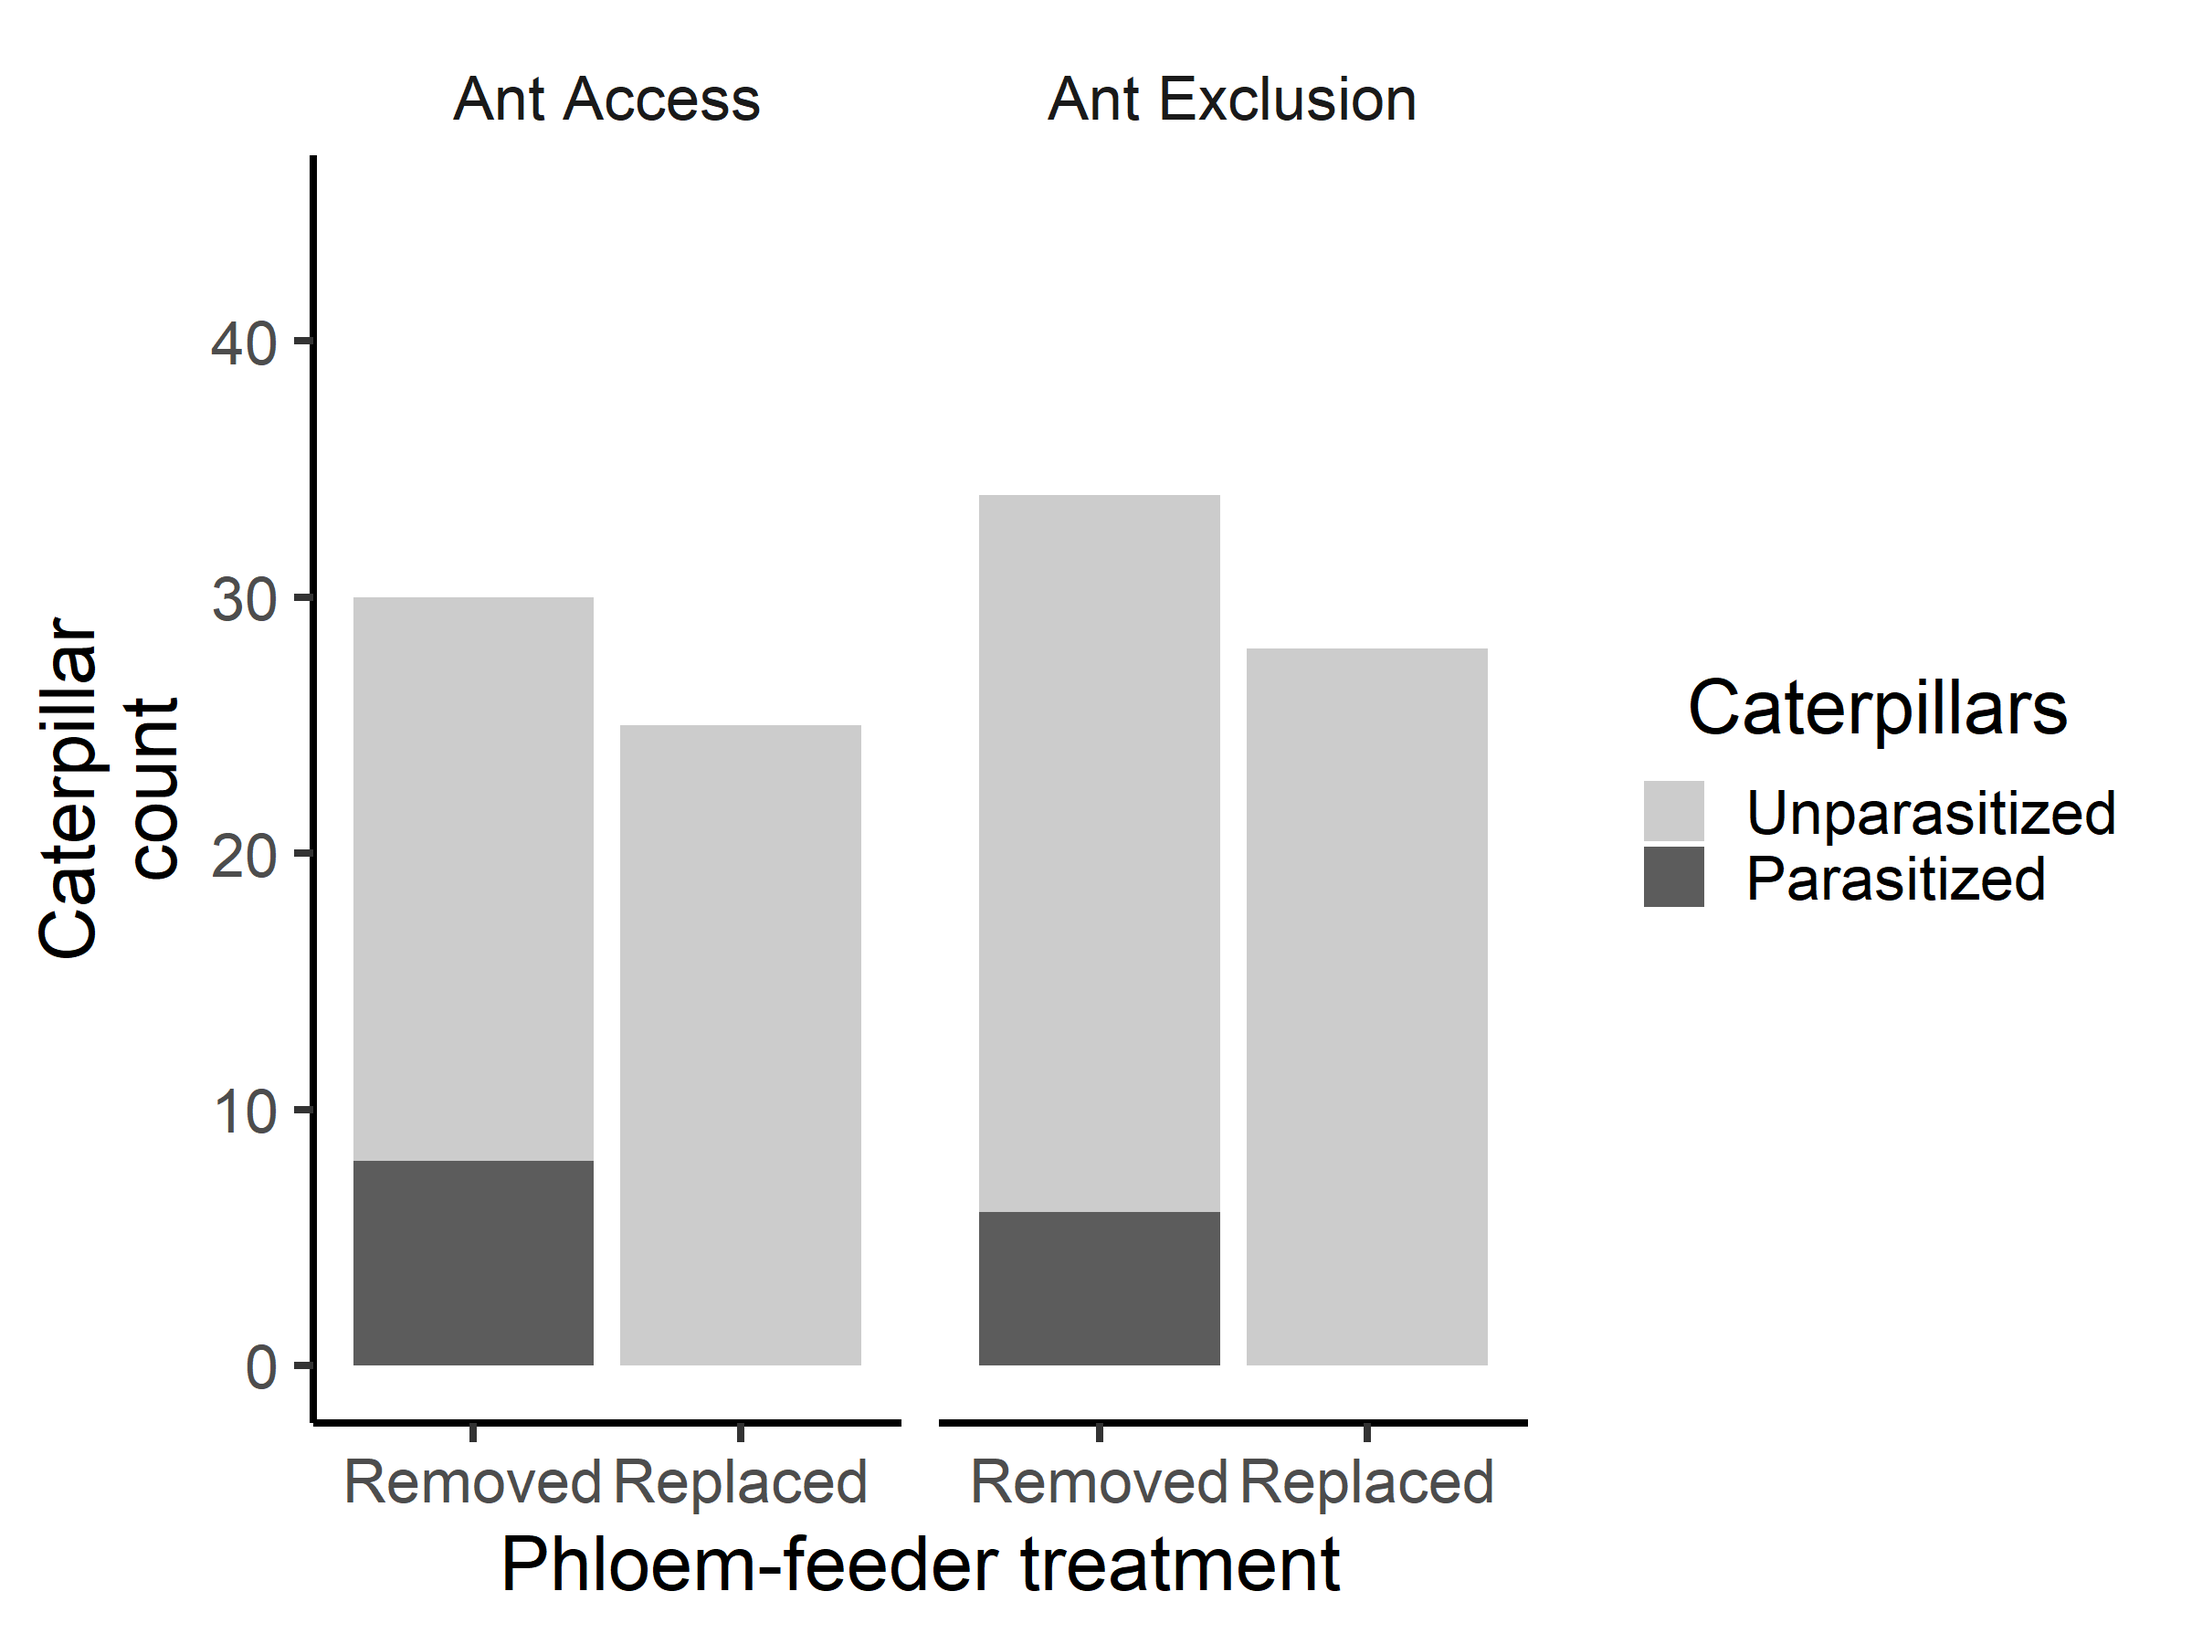
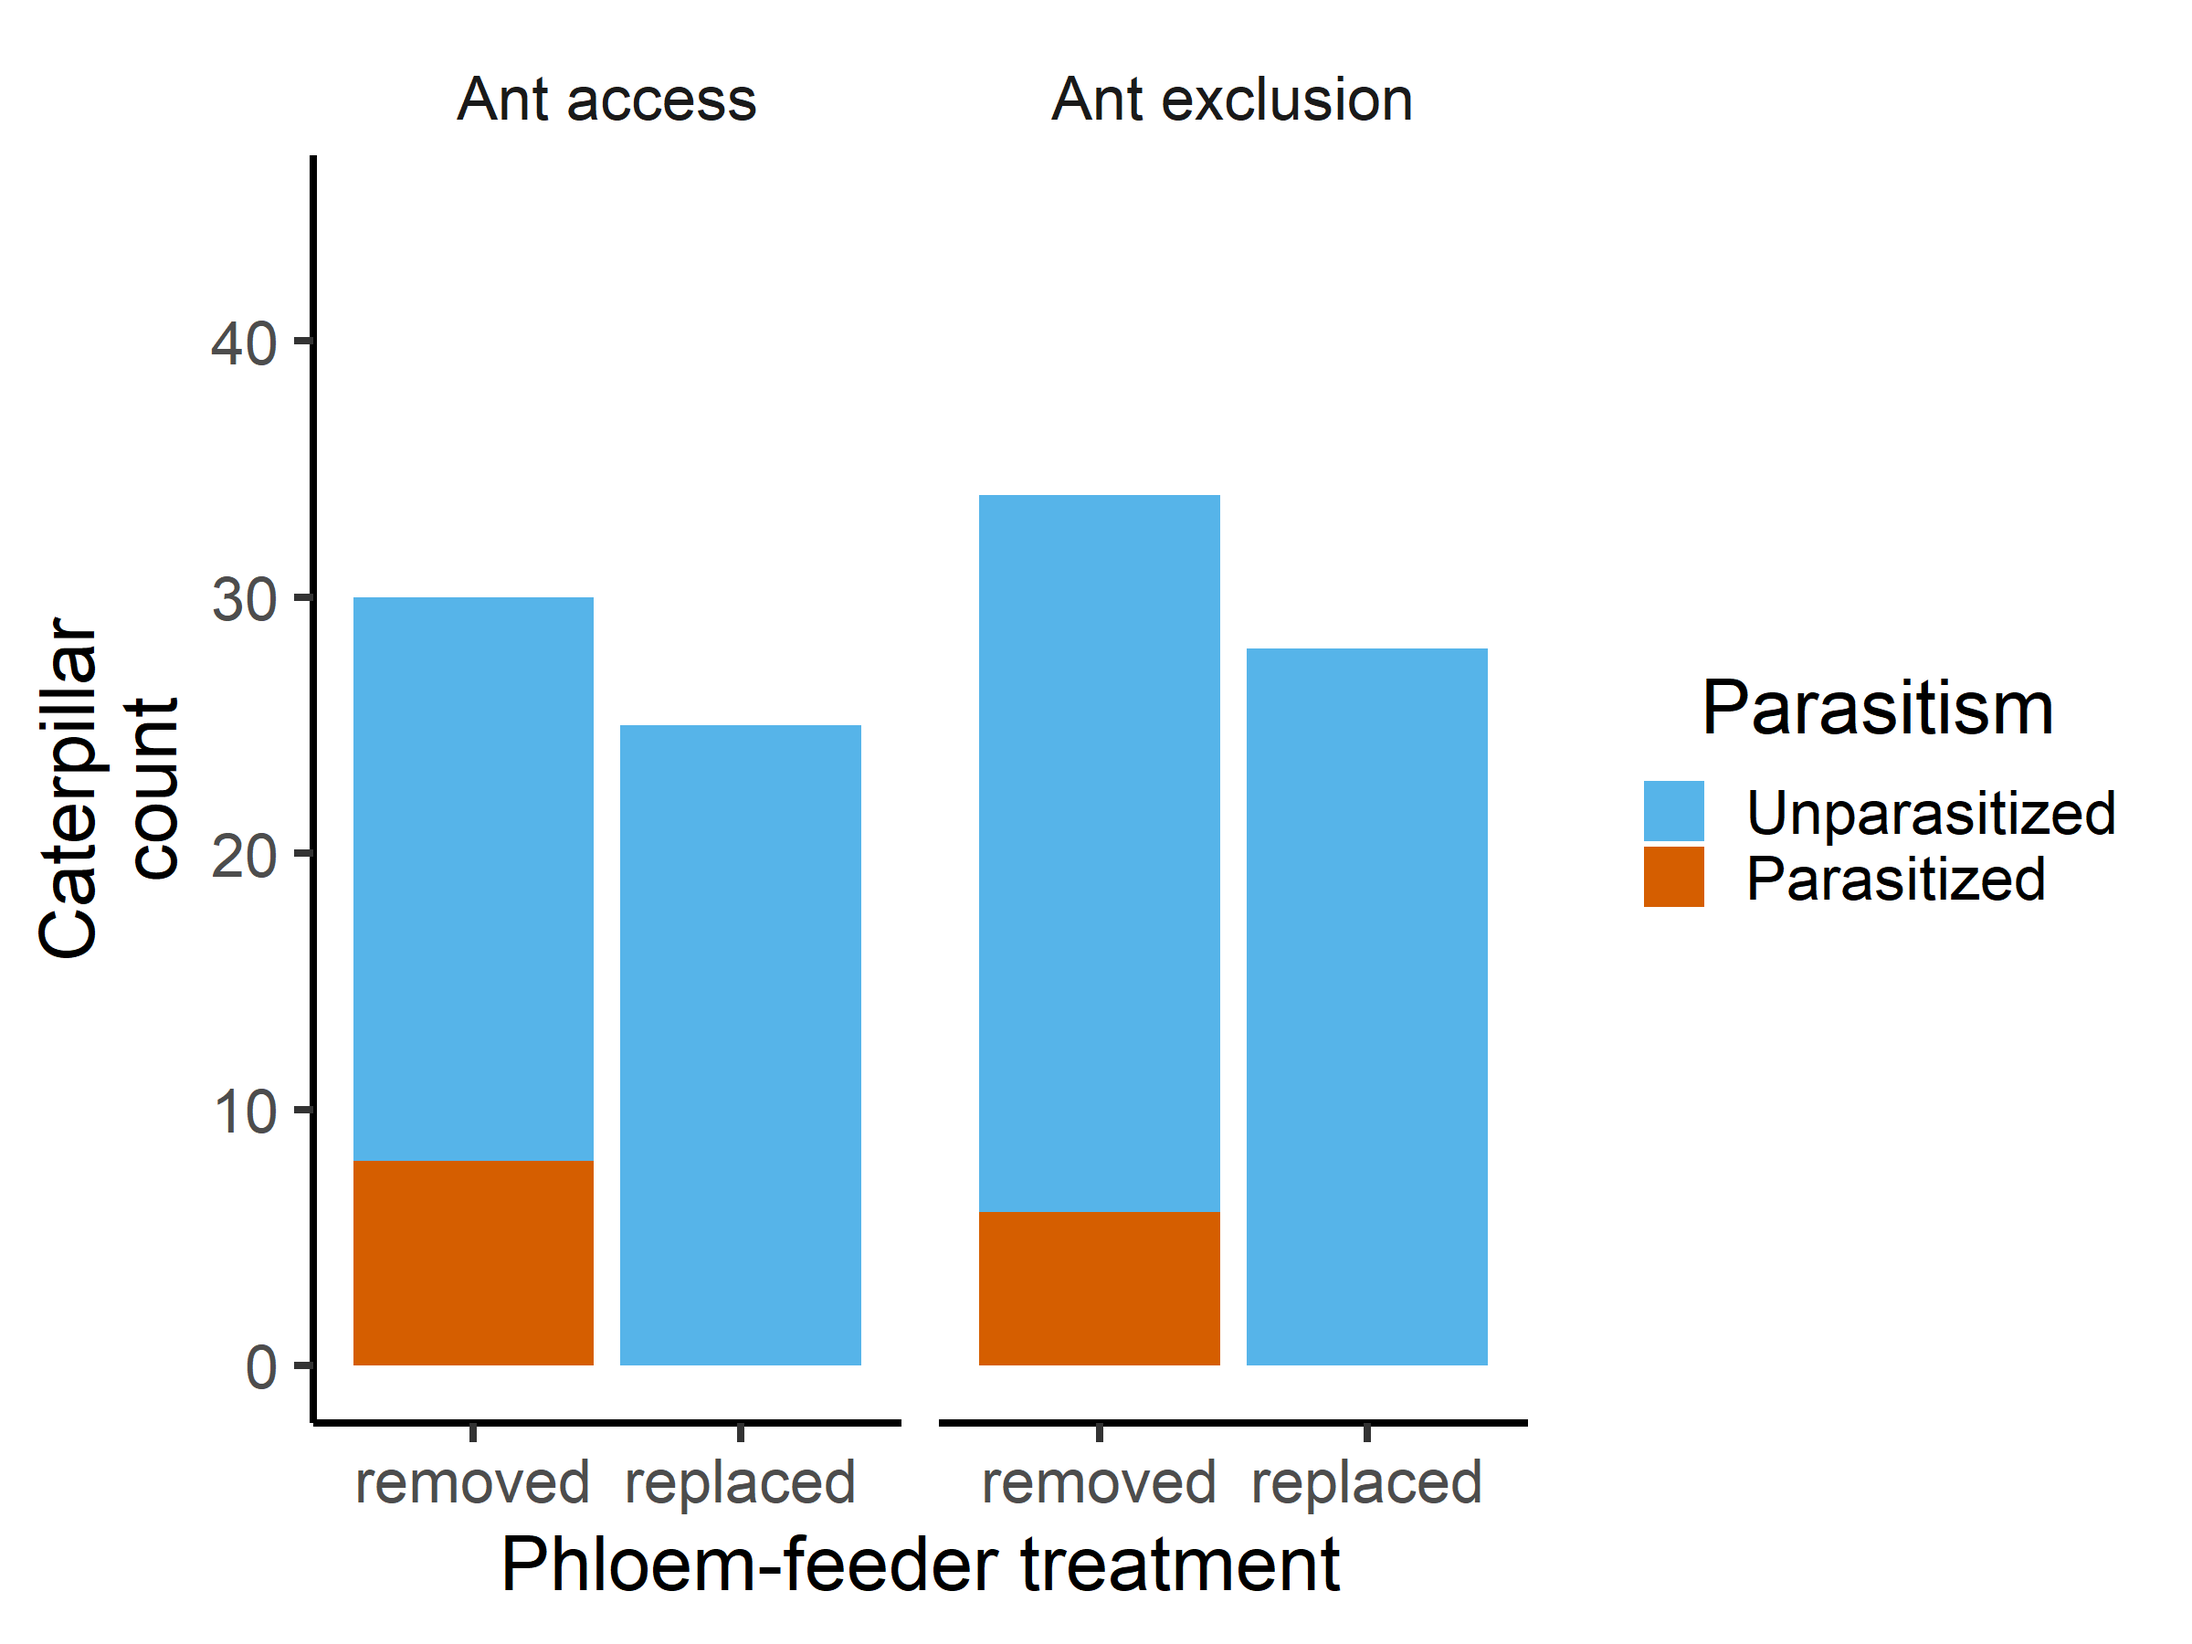
added color to the figures.

diff --git a/Analyses/PF.parasitism.md b/Analyses/PF.parasitism.md
@@ -1,56 +1,37 @@
 Phloem Feeding Insects Inhibit Caterpillar Parasitism
 ================
 Riley M. Anderson
-October 12, 2023
+October 31, 2023
 
-- <a href="#overview" id="toc-overview">Overview</a>
-  - <a href="#summary-of-results" id="toc-summary-of-results">Summary of
-    Results</a>
-- <a href="#natural-membracid-density-in-2022-membracidsm2"
-  id="toc-natural-membracid-density-in-2022-membracidsm2">Natural
-  membracid density in 2022 (membracids/m<sup>2</sup>)</a>
-- <a href="#natural-membracid-density-in-2022-membracidsbranch"
-  id="toc-natural-membracid-density-in-2022-membracidsbranch">Natural
-  membracid density in 2022 (membracids/branch)</a>
-- <a href="#setup-metrics-in-2019" id="toc-setup-metrics-in-2019">Setup
-  metrics in 2019</a>
-  - <a href="#membracid-density-all-sampled-branches"
-    id="toc-membracid-density-all-sampled-branches">Membracid density (all
-    sampled branches)</a>
-  - <a href="#membracid-density-only-branches-with-phloem-feeders"
-    id="toc-membracid-density-only-branches-with-phloem-feeders">Membracid
-    density (only branches with phloem-feeders)</a>
-  - <a href="#caterpillar-density-all-sampled-branches"
-    id="toc-caterpillar-density-all-sampled-branches">Caterpillar density
-    (all sampled branches)</a>
-- <a href="#ants" id="toc-ants">Ants:</a>
-  - <a href="#2019--2022-comparison-of-ant-treatments-on-parasitism"
-    id="toc-2019--2022-comparison-of-ant-treatments-on-parasitism">2019
-    &amp; 2022 comparison of ant treatments on parasitism</a>
-  - <a href="#ant-figure" id="toc-ant-figure">Ant figure</a>
-  - <a
-    href="#logistic-model-of-the-factorial-ant--pf-treatments-on-parasitism"
-    id="toc-logistic-model-of-the-factorial-ant--pf-treatments-on-parasitism">Logistic
-    model of the factorial ant &amp; pf treatments on parasitism</a>
-  - <a href="#ant--pf-means-and-cis-figure"
-    id="toc-ant--pf-means-and-cis-figure">Ant &amp; PF means and CIs
-    figure</a>
-- <a href="#phloem-feeders" id="toc-phloem-feeders">Phloem-feeders:</a>
-  - <a
-    href="#2019-2022-parasitism-analysis-of-phloem-feeders-via-fishers-exact-test"
-    id="toc-2019-2022-parasitism-analysis-of-phloem-feeders-via-fishers-exact-test">2019-2022
-    parasitism analysis of phloem-feeders via Fisher’s Exact Test</a>
-  - <a
-    href="#2019-2022-parasitism-analysis-of-phloem-feeders-via-binomial-glm"
-    id="toc-2019-2022-parasitism-analysis-of-phloem-feeders-via-binomial-glm">2019-2022
-    parasitism analysis of phloem-feeders via binomial GLM</a>
-  - <a href="#phloem-feeder-figure"
-    id="toc-phloem-feeder-figure">Phloem-feeder figure</a>
-  - <a href="#parasitism-by-caterpillar-species-and-pf-treatment-figure"
-    id="toc-parasitism-by-caterpillar-species-and-pf-treatment-figure">Parasitism
-    by caterpillar species and PF treatment figure</a>
-- <a href="#session-information" id="toc-session-information">Session
-  Information</a>
+- [Overview](#overview)
+  - [Summary of Results](#summary-of-results)
+- [Natural membracid density in 2022
+  (membracids/m<sup>2</sup>)](#natural-membracid-density-in-2022-membracidsm2)
+- [Natural membracid density in 2022
+  (membracids/branch)](#natural-membracid-density-in-2022-membracidsbranch)
+- [Setup metrics in 2019](#setup-metrics-in-2019)
+  - [Membracid density (all sampled
+    branches)](#membracid-density-all-sampled-branches)
+  - [Membracid density (only branches with
+    phloem-feeders)](#membracid-density-only-branches-with-phloem-feeders)
+  - [Caterpillar density (all sampled
+    branches)](#caterpillar-density-all-sampled-branches)
+- [Ants:](#ants)
+  - [2019 & 2022 comparison of ant treatments on
+    parasitism](#2019--2022-comparison-of-ant-treatments-on-parasitism)
+  - [Ant figure](#ant-figure)
+  - [Logistic model of the factorial ant & pf treatments on
+    parasitism](#logistic-model-of-the-factorial-ant--pf-treatments-on-parasitism)
+  - [Ant & PF means and CIs figure](#ant--pf-means-and-cis-figure)
+- [Phloem-feeders:](#phloem-feeders)
+  - [2019-2022 parasitism analysis of phloem-feeders via Fisher’s Exact
+    Test](#2019-2022-parasitism-analysis-of-phloem-feeders-via-fishers-exact-test)
+  - [2019-2022 parasitism analysis of phloem-feeders via binomial
+    GLM](#2019-2022-parasitism-analysis-of-phloem-feeders-via-binomial-glm)
+  - [Phloem-feeder figure](#phloem-feeder-figure)
+  - [Parasitism by caterpillar species and PF treatment
+    figure](#parasitism-by-caterpillar-species-and-pf-treatment-figure)
+- [Session Information](#session-information)
 
 # Overview
 
